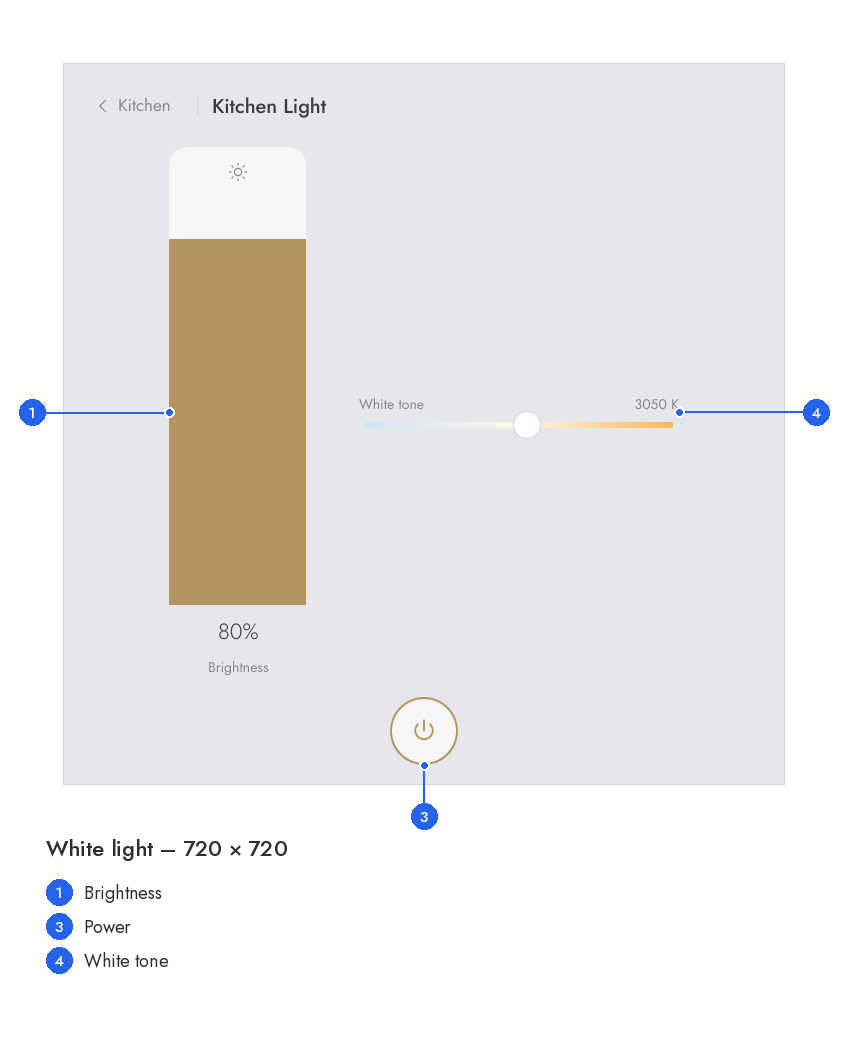
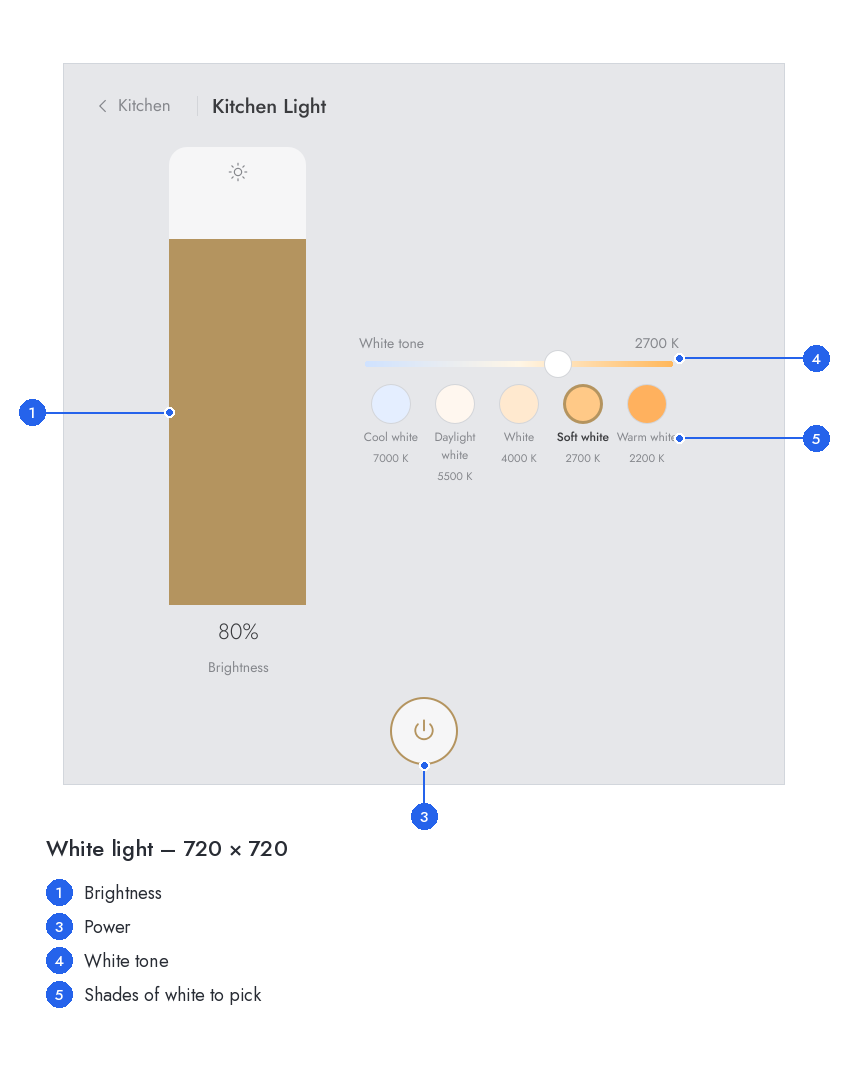
Shades of white to pick below the white tone slider
Five fixed colour temperatures (cool white 7000 K, daylight white 5500 K,
white 4000 K, soft white 2700 K, warm white 2200 K) as round swatches, cool to
warm like the slider. Tapping one sets it at once; the current one gets a gold
ring; shades outside the light's range are greyed out. Docs, screenshots,
translations and a test.

Claude-Session: https://claude.ai/code/session_01WHPo8jtQJGMwjgBVHobh9P

diff --git a/app/qml/ColorTempSlider.qml b/app/qml/ColorTempSlider.qml
@@ -1,7 +1,7 @@
 import QtQuick
 import QtQuick.Controls.Basic
 
-// White tone from cool (left) to warm (right), values in mired
+// White tone from cool (left) to warm (right), values in mired; below it shades of white to pick
 Column {
     id: root
 
@@ -67,6 +67,93 @@ Column {
             color: Theme.knob
             border.color: slider.activeFocus ? Theme.gold : Theme.line
             border.width: slider.activeFocus ? 2 : 1
+        }
+    }
+
+    // shades of white to pick directly (absolute kelvin), cool to warm like the slider above;
+    // those the light cannot show are greyed out
+    readonly property var presets: [
+        { name: qsTr("Cool white"), kelvin: 7000, swatch: "#E4EEFF" },
+        { name: qsTr("Daylight white"), kelvin: 5500, swatch: "#FFF7EF" },
+        { name: qsTr("White"), kelvin: 4000, swatch: "#FFE9CF" },
+        { name: qsTr("Soft white"), kelvin: 2700, swatch: "#FFC987" },
+        { name: qsTr("Warm white"), kelvin: 2200, swatch: "#FFB15E" }
+    ]
+    function pick(kelvin) {
+        const mired = Math.round(1e6 / kelvin);
+        slider.value = mired;
+        commit.stop();
+        root.committed(mired);
+        release.restart();
+    }
+
+    Item {
+        width: parent.width
+        height: Theme.s(6)
+    }
+    Row {
+        id: presetRow
+        objectName: "whitePresets"
+        width: parent.width
+        readonly property real cell: width / root.presets.length
+        Repeater {
+            model: root.presets
+            Item {
+                id: preset
+                required property var modelData
+                readonly property int mired: Math.round(1e6 / modelData.kelvin)
+                // a little tolerance: lights often stop at 153 mired (6500 K) or 454 (2200 K)
+                readonly property bool possible: mired >= root.minMired - 4 && mired <= root.maxMired + 4
+                readonly property bool current: Math.abs(slider.value - mired) <= 3
+                objectName: "whitePreset:" + modelData.kelvin
+                width: presetRow.cell
+                height: column.implicitHeight + 8
+                opacity: possible ? 1 : 0.35
+                activeFocusOnTab: possible
+                Accessible.role: Accessible.Button
+                Accessible.name: qsTr("%1, %2 K").arg(modelData.name).arg(modelData.kelvin)
+                Accessible.checked: current
+                Keys.onReturnPressed: if (possible) root.pick(modelData.kelvin)
+                Keys.onSpacePressed: if (possible) root.pick(modelData.kelvin)
+
+                Column {
+                    id: column
+                    width: parent.width
+                    spacing: 4
+                    Rectangle {
+                        anchors.horizontalCenter: parent.horizontalCenter
+                        width: Theme.s(40)
+                        height: width
+                        radius: width / 2
+                        color: preset.modelData.swatch
+                        border.color: preset.current ? Theme.gold : (preset.activeFocus ? Theme.ink : Theme.line)
+                        border.width: preset.current || preset.activeFocus ? 3 : 1
+                    }
+                    Text {
+                        width: parent.width
+                        horizontalAlignment: Text.AlignHCenter
+                        text: preset.modelData.name
+                        color: preset.current ? Theme.ink : Theme.muted
+                        font.pixelSize: Theme.s(12)
+                        font.weight: preset.current ? Font.Medium : Font.Normal
+                        wrapMode: Text.WordWrap
+                        maximumLineCount: 2
+                        elide: Text.ElideRight
+                    }
+                    Text {
+                        width: parent.width
+                        horizontalAlignment: Text.AlignHCenter
+                        text: qsTr("%1 K").arg(preset.modelData.kelvin)
+                        color: Theme.muted
+                        font.pixelSize: Theme.s(11)
+                    }
+                }
+                MouseArea {
+                    anchors.fill: parent
+                    enabled: preset.possible
+                    onClicked: root.pick(preset.modelData.kelvin)
+                }
+            }
         }
     }
 

diff --git a/tests/test_qt.py b/tests/test_qt.py
@@ -2051,3 +2051,61 @@ def test_gestures_detail_edge_two_fingers_idle(qapp, tmp_path):
     win.close()
     engine.deleteLater()
     pump_until(lambda: False, timeout=0.3)
+
+
+def test_white_tone_presets(qapp, tmp_path):
+    """Shades of white below the white tone slider set the colour temperature directly; one the
+    light cannot reach is greyed out and does nothing."""
+    from PySide6.QtCore import Qt
+    from PySide6.QtQml import QQmlApplicationEngine
+    from PySide6.QtQuick import QQuickWindow
+    from PySide6.QtTest import QTest
+    from shiboken6 import Shiboken
+    from app.qt.main import QML_DIR
+
+    ctl = make_controller(tmp_path)
+    engine = QQmlApplicationEngine()
+    engine.rootContext().setContextProperty("panel", ctl)
+    engine.rootContext().setContextProperty("initialWidth", 1024)
+    engine.rootContext().setContextProperty("initialHeight", 600)
+    engine.load(QML_DIR / "Main.qml")
+    win = Shiboken.wrapInstance(Shiboken.getCppPointer(engine.rootObjects()[0])[0], QQuickWindow)
+    ctl.start()
+    assert pump_until(lambda: len(ctl.devices.all()) == 29)
+    lamp = next(d["id"] for d in ctl.devices.all() if d["name"] == "Kitchen Light")
+
+    def find(name, item=None):
+        for child in (item or win.contentItem()).childItems():
+            if child.objectName() == name and child.isVisible():
+                return child
+            if (hit := find(name, child)) is not None:
+                return hit
+        return None
+
+    def tap(name):
+        it = find(name)
+        QTest.mouseClick(win, Qt.MouseButton.LeftButton, Qt.KeyboardModifier.NoModifier,
+                         it.mapToScene(it.boundingRect().center()).toPoint())
+
+    win.setProperty("openDevice", lamp)
+    assert pump_until(lambda: find("whitePreset:2700") is not None)
+    tap("whitePreset:2700")
+    assert pump_until(lambda: ctl.devices.get(lamp)["state"].get("color_temp") == 370)
+    assert ctl.devices.get(lamp)["state"]["on"] is True
+    assert pump_until(lambda: find("whitePreset:2700").property("current") is True)
+    tap("whitePreset:7000")
+    assert pump_until(lambda: ctl.devices.get(lamp)["state"].get("color_temp") == 143)
+
+    # a light that reaches only 2700–6500 K: cool white is greyed out
+    d = ctl.devices.get(lamp)
+    ctl._on_message({"type": "device", "device": {**d, "meta": {**d["meta"], "min_mired": 153, "max_mired": 370}}})
+    assert pump_until(lambda: find("whitePreset:7000").property("possible") is False)
+    assert find("whitePreset:2200").property("possible") is False
+    assert find("whitePreset:2700").property("possible") is True
+    tap("whitePreset:7000")
+    pump_until(lambda: False, timeout=0.5)
+    assert ctl.devices.get(lamp)["state"].get("color_temp") == 143
+    ctl.shutdown()
+    win.close()
+    engine.deleteLater()
+    pump_until(lambda: False, timeout=0.3)

diff --git a/app/i18n_catalog.py b/app/i18n_catalog.py
@@ -441,6 +441,12 @@ _ROWS: list[tuple[str, str, str, str, str]] = [
     ('Runs this scene without waking the panel – instead of “%1”', 'Führt diese Szene aus, ohne das Panel aufzuwecken – statt „%1“', 'Lance cette scène sans réveiller le panneau – au lieu de « %1 »', 'Avvia questa scena senza riattivare il pannello – al posto di «%1»', 'Ejecuta esta escena sin despertar el panel – en lugar de «%1»'),
     ('Scene “%1”', 'Szene „%1“', 'Scène « %1 »', 'Scena «%1»', 'Escena «%1»'),
     ('Downlight', 'Einbauleuchte', 'Spot encastré', 'Faretto a incasso', 'Downlight empotrado'),
+    ('Cool white', 'Kaltweiß', 'Blanc froid', 'Bianco freddo', 'Blanco frío'),
+    ('Daylight white', 'Tageslichtweiß', 'Blanc lumière du jour', 'Bianco luce diurna', 'Blanco luz día'),
+    ('White', 'Weiß', 'Blanc', 'Bianco', 'Blanco'),
+    ('Soft white', 'Sanftweiß', 'Blanc doux', 'Bianco morbido', 'Blanco suave'),
+    ('Warm white', 'Warmweiß', 'Blanc chaud', 'Bianco caldo', 'Blanco cálido'),
+    ('%1, %2 K', '%1, %2 K', '%1, %2 K', '%1, %2 K', '%1, %2 K'),
     ("%1, lights on", "%1, Licht an", "%1, lumière allumée", "%1, luci accese", "%1, luces encendidas"),
     ("Language", "Sprache", "Langue", "Lingua", "Idioma"),
     ("System", "System", "Système", "Sistema", "Sistema"),

diff --git a/tools/doc_screenshots.py b/tools/doc_screenshots.py
@@ -453,12 +453,13 @@ def detail_views(p: Panel, out: Path, suffix: str, size: str) -> None:
     ], f"Color light – {size}"), out, f"light{suffix}")
 
     kitchen = p.device_id("Kitchen Light")
-    p.ctl.setAttrs(kitchen, {"on": True, "brightness": 80, "color_temp": 330})
+    p.ctl.setAttrs(kitchen, {"on": True, "brightness": 80, "color_temp": 370})     # 2700 K, "Soft white"
     wait(800)
     p.win.setProperty("openDevice", kitchen)
     save(annotate(p.grab(), [
         (1, [p.rect("brightnessBar")], "Brightness", "left"),
-        (4, [p.rect("colorTemp")], "White tone", "right"),
+        (4, [p.rect("colorTemp").adjusted(0, 0, 0, -p.rect("whitePresets").height())], "White tone", "right"),
+        (5, [p.rect("whitePresets")], "Shades of white to pick", "right"),
         (3, [p.rect("powerButton")], "Power", "bottom"),
     ], f"White light – {size}"), out, f"light-white-tone{suffix}")
 

diff --git a/app/i18n_catalog_pt.py b/app/i18n_catalog_pt.py
@@ -592,4 +592,10 @@ PT: dict[str, str] = {
     'Runs this scene without waking the panel – instead of “%1”': 'Executa esta cena sem acordar o painel – em vez de «%1»',
     'Scene “%1”': 'Cena «%1»',
     'Downlight': 'Downlight embutido',
+    'Cool white': 'Branco frio',
+    'Daylight white': 'Branco luz do dia',
+    'White': 'Branco',
+    'Soft white': 'Branco suave',
+    'Warm white': 'Branco quente',
+    '%1, %2 K': '%1, %2 K',
 }

diff --git a/docs/user-interface.md b/docs/user-interface.md
@@ -306,6 +306,7 @@ Thermostats with an Eve history (e.g. radiator thermostats of Eve-compatible plu
 | 2 | Color wheel | Angle sets the hue, distance from the center sets the saturation; the ring shows the current color |
 | 3 | Power | Switches the device on or off; gold when on |
 | 4 | White tone | From cool (left) to warm (right), shown in kelvin |
+| 5 | Shades of white | Tap to set one directly: cool white 7000 K, daylight white 5500 K, white 4000 K, soft white 2700 K, warm white 2200 K. The one the light shows now has a gold ring; shades the light cannot reach are greyed out |
 
 Only the controls the device supports are shown.
 
